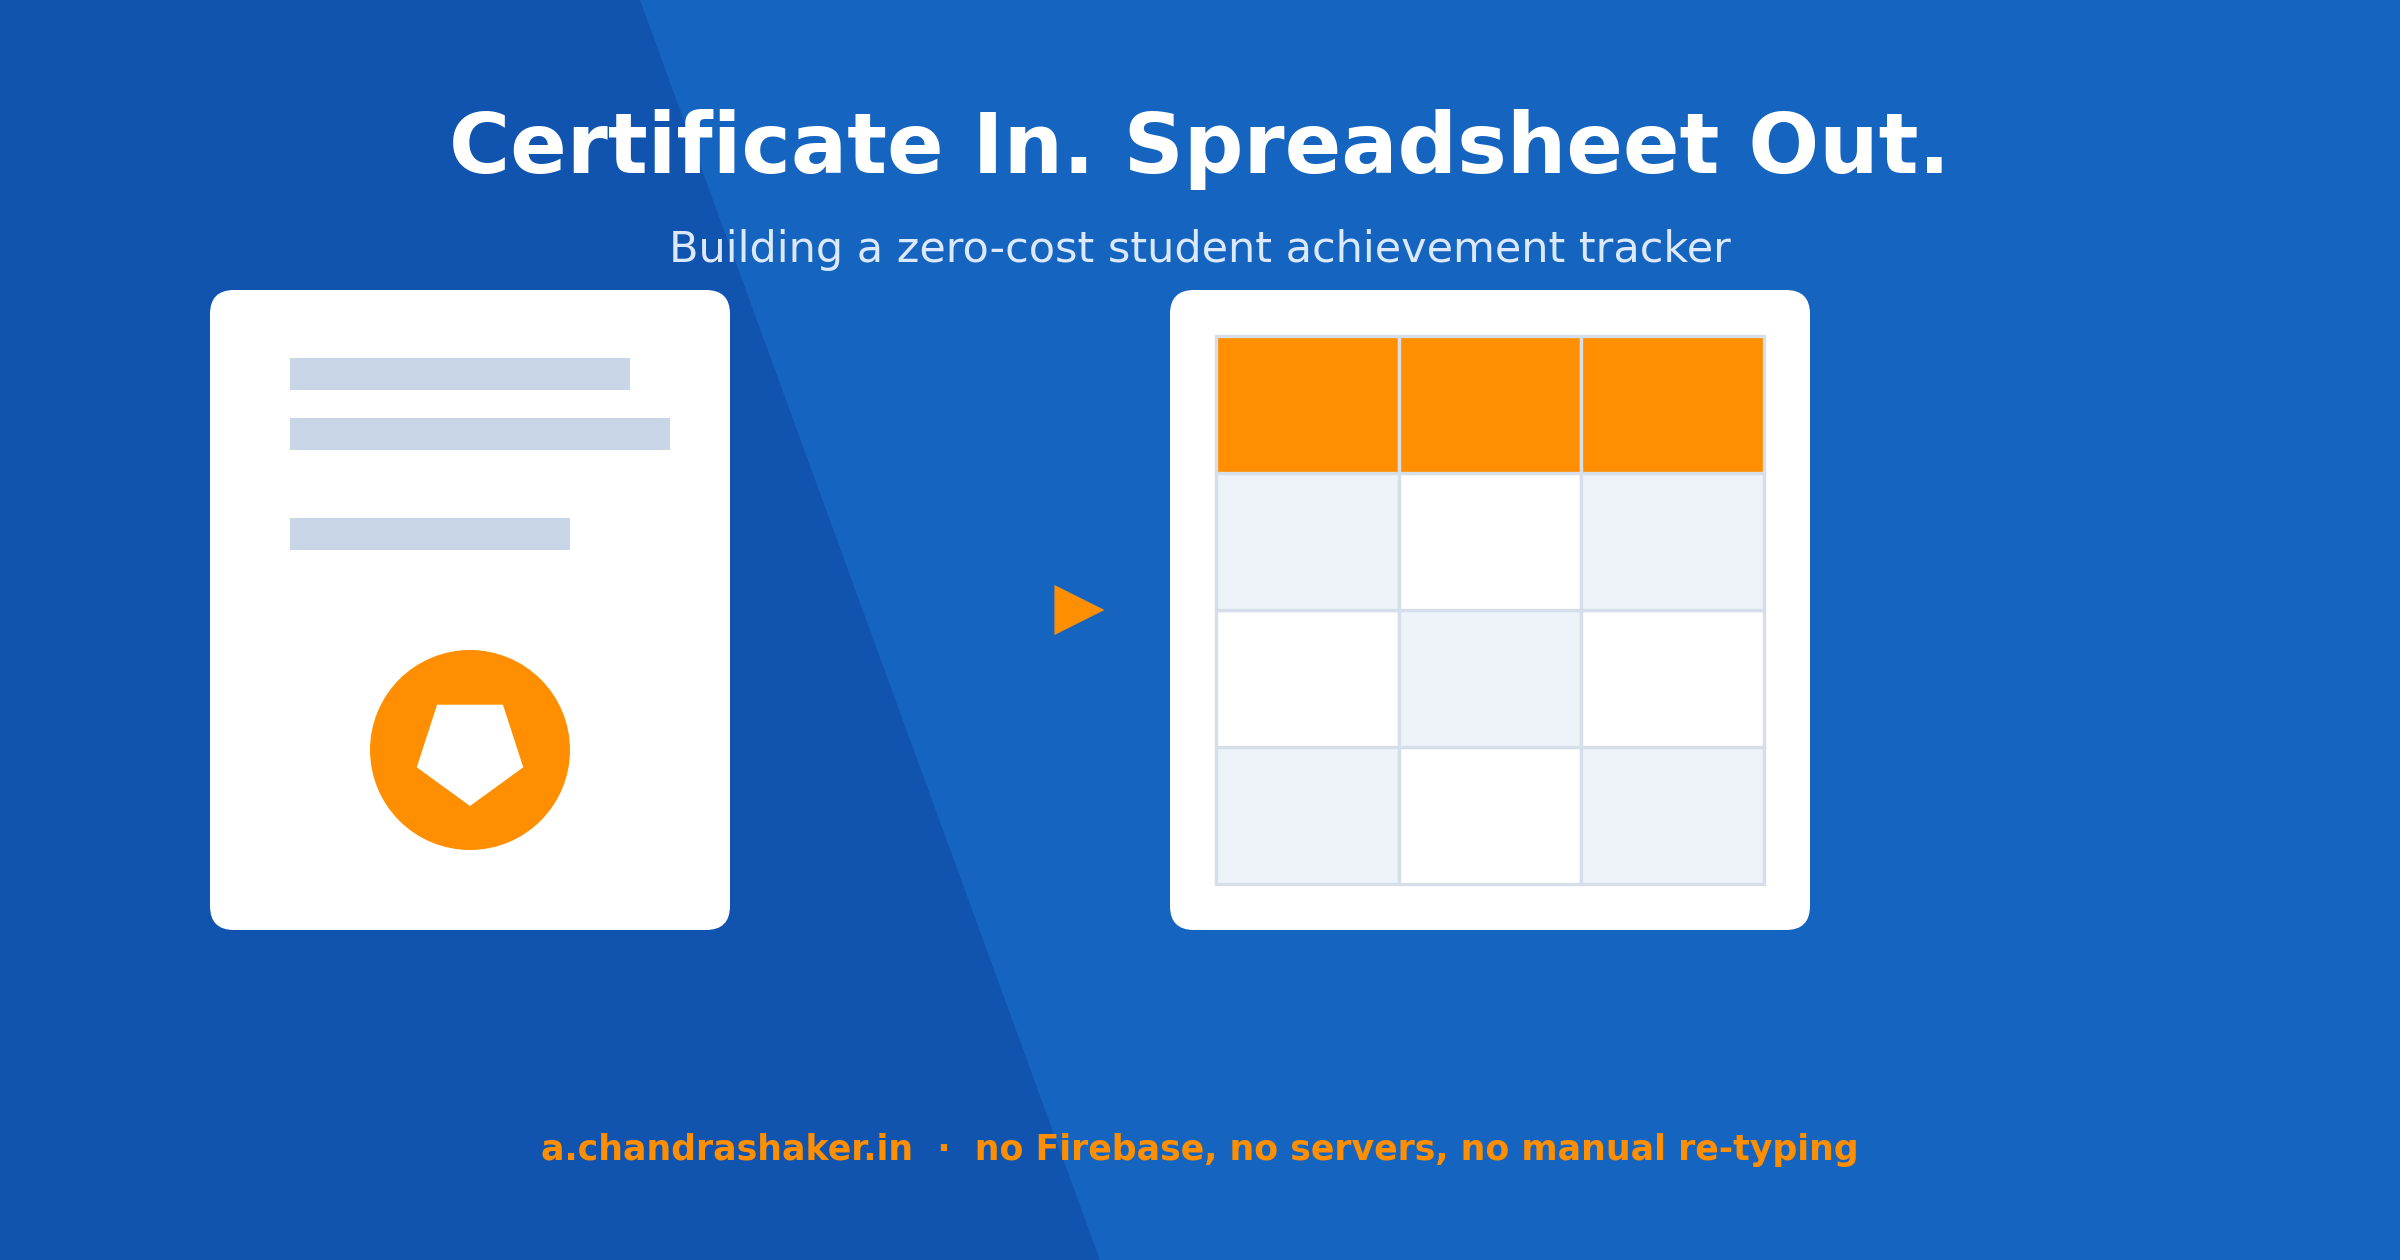
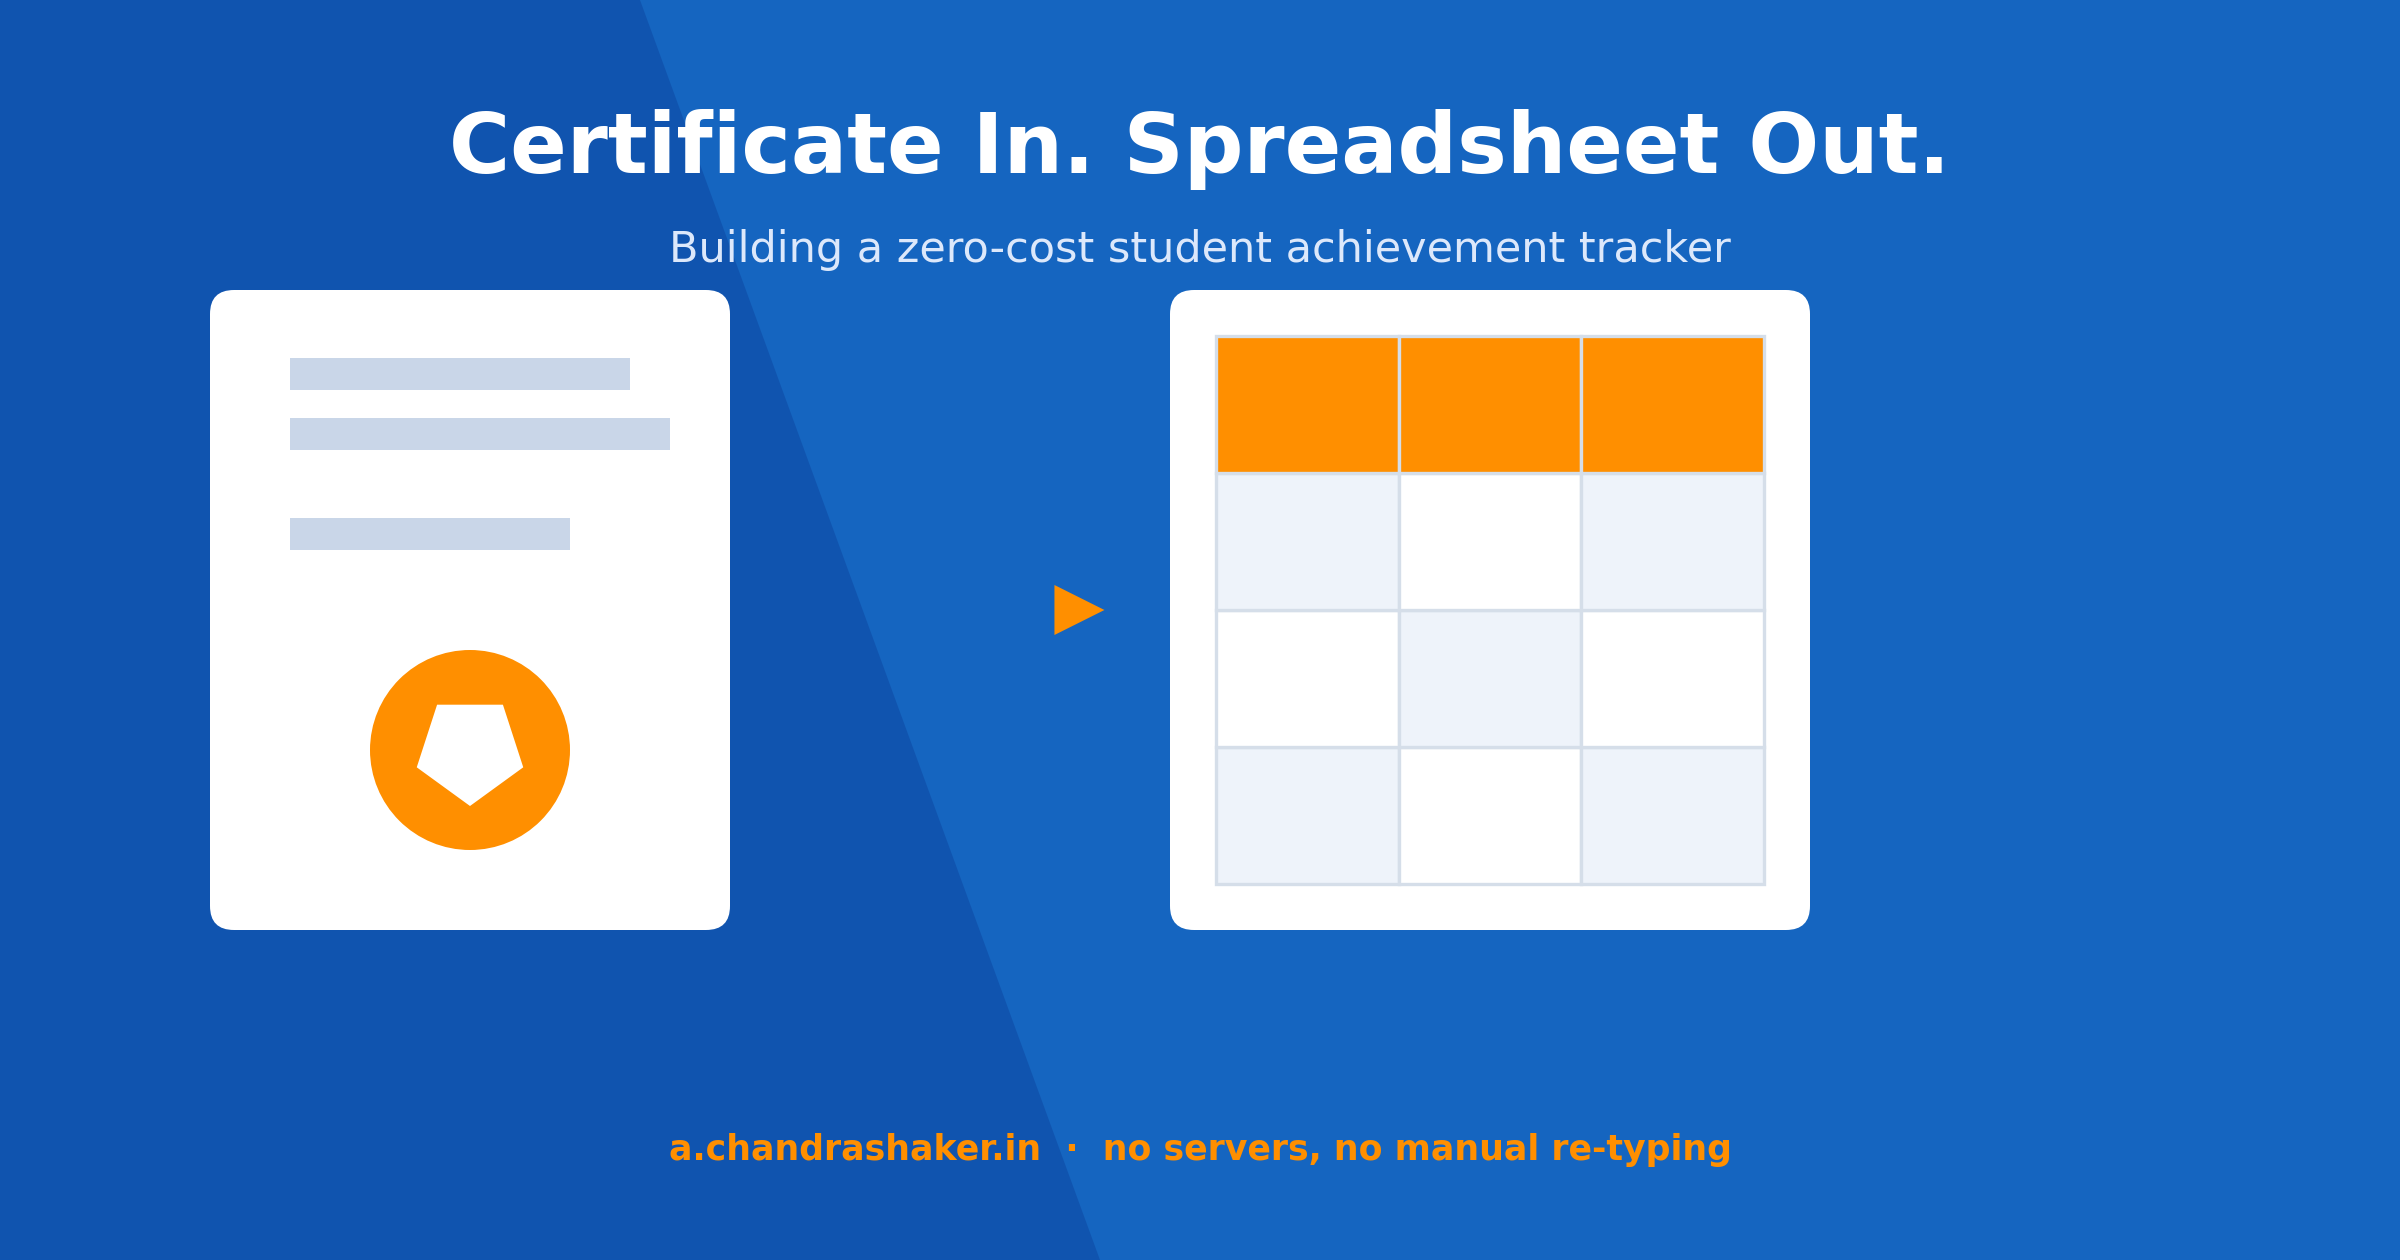
Drop Firebase mention from title and hero image

Changed region(s): [[0.2188, 0.8976, 0.7812, 0.9286]]

diff --git a/content/posts/student-achievement-tracker-google-sheets-backend.md b/content/posts/student-achievement-tracker-google-sheets-backend.md
@@ -1,5 +1,5 @@
 ---
-title: "How I Built a Free Student Certificate Tracker Using Google Sheets (No Firebase)"
+title: "How I Built a Free Student Certificate Tracker Using Google Sheets"
 slug: "student-achievement-tracker-google-sheets-backend"
 date: 2026-09-17
 description: "How I built a zero-cost student certificate tracker using Google Sheets, Apps Script, and Gemini's vision API instead of Firebase — full stack breakdown, schema, and the OCR decision that didn't work."
